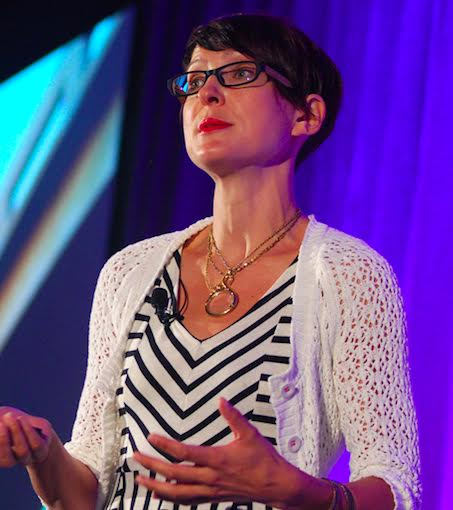
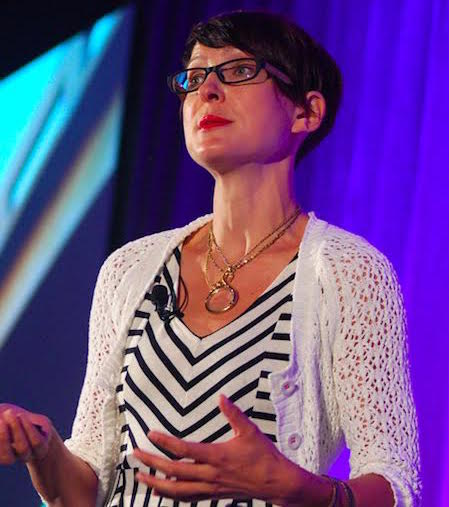
Update team images

diff --git a/_team_and_board/meg.md b/_team_and_board/meg.md
@@ -5,7 +5,7 @@ current: true
 title: Meg Satterthwaite
 tags: board
 role: Board Secretary
-image: /assets/Satterthwaite headshot.jpg
+image: /assets/satterthwaite_headshot.jpg
 twitter: "https://twitter.com/SatterthwaiteML"
 excerpt: ""
 email: ""
